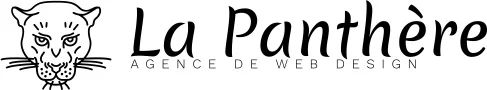
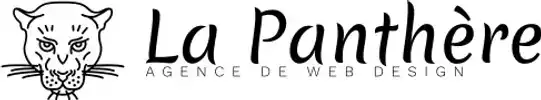
ajouter l'image compressé du header

diff --git a/style.css b/style.css
@@ -5,7 +5,7 @@ body{margin:0;padding:0;background:lightg;overflow-x:hidden;-webkit-font-smoothi
 .bg-t-edge{background:top no-repeat; background-color: no-repeat;}.bloc-bg-texture:before{content:""; background-size:2px 2px;position:absolute;top:0;bottom:1;left:1;right:0}.b-parallax{background-attachment:fixed;width:auto;margin:50px}.d-bloc{color:rgba(255,255,255,.7)}.d-bloc button:hover{color:rgba(255,255,255,.9)}.d-bloc .icon-round,.d-bloc .icon-square,.d-bloc .icon-rounded,.d-bloc .icon-semi-rounded-a,.d-bloc .icon-semi-rounded-b{border-color:rgba(255,255,255,.9)}.d-bloc .divider-h span{border-color:rgba(173,13,13,.2);background-color:red}.d-bloc .a-btn,.d-bloc .navbar a,.d-bloc .navbar-brand,.d-bloc a .icon-sm,.d-bloc a .icon-md,.d-bloc a .icon-lg,.d-bloc a .icon-xl,.d-bloc h1 a,.d-bloc h2 a,.d-bloc h3 a,.d-bloc h4 a,.d-bloc h5 a,.d-bloc h6 a,.d-bloc p a{color:#1a1616}.d-bloc .a-btn:hover,.d-bloc .navbar a:hover,.d-bloc .navbar-brand:hover,.d-bloc a:hover .icon-sm,.d-bloc a:hover .icon-md,.d-bloc a:hover .icon-lg,.d-bloc a:hover .icon-xl,.d-bloc h1 a:hover,.d-bloc h2 a:hover,.d-bloc h3 a:hover,.d-bloc h4 a:hover,.d-bloc h5 a:hover,.d-bloc h6 a:hover,.d-bloc p a:hover{color:rgba(255,255,255,1)}
 .d-bloc .navbar-toggle .icon-bar{background:rgba(255,255,255,1)}.d-bloc .btn-wire,.d-bloc .btn-wire:hover{color:rgba(255,255,255,1);border-color:rgba(255,255,255,1)}.d-bloc .panel{color:rgba(0,0,0,.5)}.d-bloc .panel button:hover{color:rgba(0,0,0,.7)}.d-bloc .panel icon{border-color:rgba(0,0,0,.7)}.d-bloc .panel .divider-h span{border-color:rgba(0,0,0,.1)}.d-bloc .panel .a-btn{color:rgba(0,0,0,.6)}.d-bloc .panel .a-btn:hover{color:rgba(0,0,0,1)}.d-bloc .panel .btn-wire,.d-bloc .panel .btn-wire:hover{color:rgba(0,0,0,.7);border-color:rgba(0,0,0,.3)}.d-bloc .panel,.l-bloc{color:rgba(200, 76, 76, 0.5)}.d-bloc .panel button:hover,.l-bloc button:hover{color:#fff}.l-bloc .icon-round,.l-bloc .icon-square,.l-bloc .icon-rounded,.l-bloc .icon-semi-rounded-a,.l-bloc .icon-semi-rounded-b{border-color:rgba(0,0,0,.7)}.d-bloc .panel .divider-h span,.l-bloc .divider-h span{border-color:rgba(0,0,0,.1)}.d-bloc .panel .a-btn,.l-bloc .a-btn,.l-bloc .navbar a,.l-bloc .navbar-brand,.l-bloc a .icon-sm,.l-bloc a .icon-md,.l-bloc a .icon-lg,.l-bloc a .icon-xl,.l-bloc h1 a,.l-bloc h2 a,.l-bloc h3 a,.l-bloc h4 a,.l-bloc h5 a,.l-bloc h6 a,.l-bloc p a{color:rgba(241, 135, 22, 0.6)}
 .d-bloc .panel .a-btn:hover,.l-bloc .a-btn:hover,.l-bloc .navbar a:hover,.l-bloc .navbar-brand:hover,.l-bloc a:hover .icon-sm,.l-bloc a:hover .icon-md,.l-bloc a:hover .icon-lg,.l-bloc a:hover .icon-xl,.l-bloc h1 a:hover,.l-bloc h2 a:hover,.l-bloc h3 a:hover,.l-bloc h4 a:hover,.l-bloc h5 a:hover,.l-bloc h6 a:hover,.l-bloc p a:hover{color:rgba(0,0,0,1)}.l-bloc .navbar-toggle .icon-bar{color:rgba(0,0,0,.6)}.d-bloc .panel .btn-wire,.d-bloc .panel .btn-wire:hover,.l-bloc .btn-wire,.l-bloc .btn-wire:hover{color:rgba(0,0,0,.7);border-color:rgba(0,0,0,.3)}.voffset{margin-top:30px}.voffset-lg{margin-top:80px;background-color:#d3d3d3}.row-no-gutters{margin-right:0;margin-left:0}.row.row-no-gutters>[class^=col-],.row.row-no-gutters>[class*=" col-"]{padding-right:0;padding-left:0;margin-bottom:20px;margin-top:20px}#bloc-1-hero h1{font-size:32px}.navbar{margin-bottom:0;background-color:#f3976c;width:auto}.lienNavBar{color:#000000!important;font-size:20px; margin: 20px;} .navbar-brand{height:auto;padding:3px 15px;font-size:25px;font-weight:400;font-weight:600;line-height:44px;width:100%;height:100px}
-.navbar-brand img{max-height:150px;margin:0 5px 0 0; border-radius: 15px; display:inline}.navbar-header>a>img{height:98px;width:50%}.navbar-header{width:100%}.navbar .nav{padding-top:2px;margin-right:-16px;float:right}.nav>li{float:left;margin-top:4px;font-size:16px}.bar-nav .open .dropdown-menu>li>a{text-align:inherit}.nav>li a:hover,.nav>li a:focus{background:#fff;cursor:pointer}.navbar-toggle{margin:10px 10px 0 0}.navbar-toggle:hover{background:0 0}.navbar-toggle .icon-bar{background-color:rgba(0,0,0,.5);width:26px}.nav-invert .navbar .nav{float:left}.nav-invert .navbar-header,.nav-invert .navbar-brand{float:right;position:relative}@media (min-width:768px){.site-navigation{position:absolute;top:35%;right:20px;transform:translate(0,-50%);-webkit-transform:translateY(-50%)}.nav>li .dropdown-menu a,.nav>li .dropdown-menu a:hover{color:#484848}.nav-invert .site-navigation{left:0;right:0}.nav-center{text-align:center}.nav-center .navbar-header{width:100%}.nav-center .navbar-header,.nav-center .navbar-brand,.nav-center .nav>li{float:none;display:inline-block}
+.navbar-brand img{max-height:100px;margin:; border-radius: 15px; display:inline}.navbar-header>a>img{height:98px;width:50%}.navbar-header{width:100%}.navbar .nav{padding-top:2px;margin-right:-16px;float:right}.nav>li{float:left;margin-top:4px;font-size:16px}.bar-nav .open .dropdown-menu>li>a{text-align:inherit}.nav>li a:hover,.nav>li a:focus{background:#fff;cursor:pointer}.navbar-toggle{margin:10px 10px 0 0}.navbar-toggle:hover{background:0 0}.navbar-toggle .icon-bar{background-color:rgba(0,0,0,.5);width:26px}.nav-invert .navbar .nav{float:left}.nav-invert .navbar-header,.nav-invert .navbar-brand{float:right;position:relative}@media (min-width:768px){.site-navigation{position:absolute;top:35%;right:20px;transform:translate(0,-50%);-webkit-transform:translateY(-50%)}.nav>li .dropdown-menu a,.nav>li .dropdown-menu a:hover{color:#484848}.nav-invert .site-navigation{left:0;right:0}.nav-center{text-align:center}.nav-center .navbar-header{width:100%}.nav-center .navbar-header,.nav-center .navbar-brand,.nav-center .nav>li{float:none;display:inline-block}
 .nav-center .site-navigation{position:relative;width:100%;right:0;margin-right:0;margin-top:20px}.nav-center.mini-nav .navbar-toggle{float:none;margin:10px auto 0}}.nav>li>.dropdown a{background:none!important;display:block;padding:14px 15px}nav .caret{margin:0 5px}.dropdown-menu .dropdown-menu{top:-8px;left:100%}.dropdown-menu .dropmenu-flow-right{top:100%;left:0;margin-left:-1px;border-top-left-radius:0;border-top-right-radius:0}.dropdown-menu .dropdown span{border:4px solid #000;border-top-color:transparent;border-right-color:transparent;border-bottom-color:transparent;margin:6px -5px 0 0!important;float:right}.mg-md{margin-top:10px;margin-bottom:20px;color:#000}.mg-lg{margin-top:10px;margin-bottom:40px}.btn{margin:0 5px 5px 0}.btn.pull-right{margin:0 0 5px 5px}.btn-d,.btn-d:hover,.btn-d:focus{color:#fff;background:rgba(0,0,0,.3)}button{outline:none!important}.btn-rd{border-radius:40px}.btn-clean{border:1px solid rgba(0,0,0,.08);border-bottom-color:rgba(0,0,0,.1);text-shadow:0 1px 0 rgba(0,0,1,.1);box-shadow:0 1px 3px rgba(0,0,1,.25),inset 0 1px 0 0 rgba(255,255,255,.15)}
 .icon-md{font-size:30px!important;margin:10px}.img-responsive{width:100%!important;height:300px}.icon-lg{font-size:60px!important}.sm-shadow{text-shadow:0 1px 2px rgba(0,0,0,.3)}.panel-sq,.panel-sq .panel-heading,.panel-sq .panel-footer{border-radius:0}.panel-rd{border-radius:30px}.panel-rd .panel-heading{border-radius:29px 29px 0 0}.panel-rd .panel-footer{border-radius:0 0 29px 29px}.form-control{border-color:rgba(0,0,0,.1);box-shadow:none}.scrollToTop span{margin-top:6px}.showScrollTop{font-size:14px;opacity:1}a[data-lightbox]{position:relative;display:block;text-align:center}a[data-lightbox]:hover:before{content:"+";font-family:"HelveticaNeue-Light","Helvetica Neue Light","Helvetica Neue",Helvetica,Arial;font-size:32px;width:50px;height:50px;margin-left:-25px;border-radius:50%;background:rgba(0,0,0,.6);color:#fff;font-weight:100;z-index:1;position:absolute;top:50%;transform:translateY(-50%);-webkit-transform:translateY(-50%)}
 a[data-lightbox]:hover img{opacity:.6;-webkit-animation-fill-mode:none;animation-fill-mode:none}#lightbox-modal{display:flex;align-items:center}#lightbox-modal .modal-dialog{width:90%;max-width:900px;margin:0 auto 0}#lightbox-modal .modal-dialog img{max-height:90vh;margin:0 auto}.lightbox-caption{padding:20px;color:#fff;background:rgba(0,0,0,.5);position:absolute;left:15px;right:15px;bottom:5px}.close-lightbox{color:#fff;font-size:30px;position:absolute;top:20px;right:20px;z-index:20;background:rgba(0,0,0,.5);border:none;line-height:30px;padding:0 9px 5px;opacity:.3}.close-lightbox:hover,.next-lightbox:hover,.prev-lightbox:hover{opacity:1;color:#fff}.next-lightbox,.prev-lightbox{font-size:20px;color:rgba(255,255,255,.9);background:rgba(0,0,0,.5);transition:all .2s ease-in-out;position:absolute;top:45%;z-index:1;opacity:.4}.next-lightbox{padding:6px 8px 1px 13px;right:25px}.prev-lightbox{padding:6px 13px 1px 10px;left:25px}.snapshot-lb .modal-body{padding-bottom:45px}.snapshot-lb .lightbox-caption{padding:0;color:rgba(0,0,0,.5);background:0 0}
